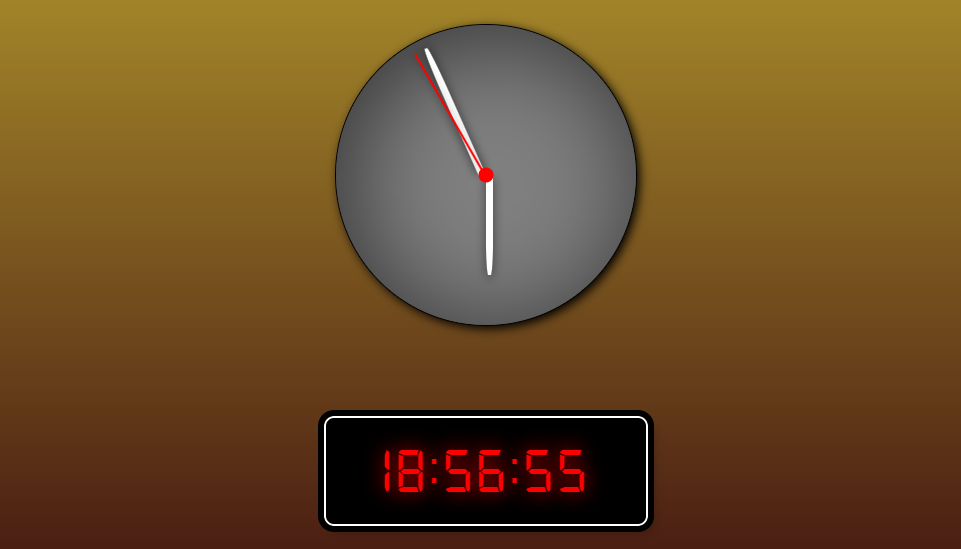
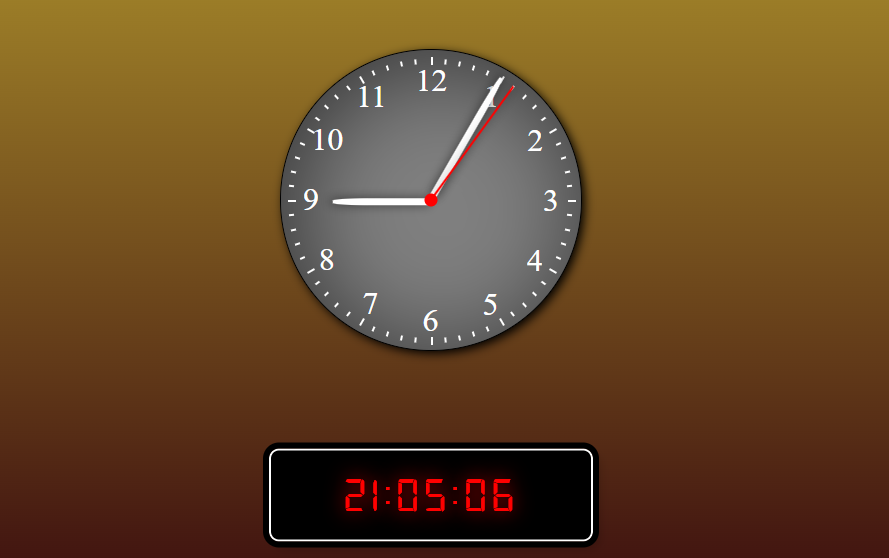
clock img updated
* clock now start instantly
* clock img updated

Changed region(s): [[0.3037, 0.031, 0.6682, 0.6503], [0.2733, 0.7432, 0.6985, 0.9909]]

diff --git a/projects/clock-test/analog-clock/script.js b/projects/clock-test/analog-clock/script.js
@@ -10,6 +10,15 @@ var pointer_seconds= document.querySelector("div#seconds")
  */
 setInterval(start,1000)
 function start() {
+<<<<<<< Updated upstream
+=======
+    setNumbersPosition()
+    addMinuteBar()
+    clockWork()
+}
+
+function clockWork() {
+>>>>>>> Stashed changes
     getTime();
     rotatePointer(pointer_hours     ,parseAngle(time.getHours()    ,12))
     rotatePointer(pointer_minutes ,parseAngle(time.getMinutes() ,60))
